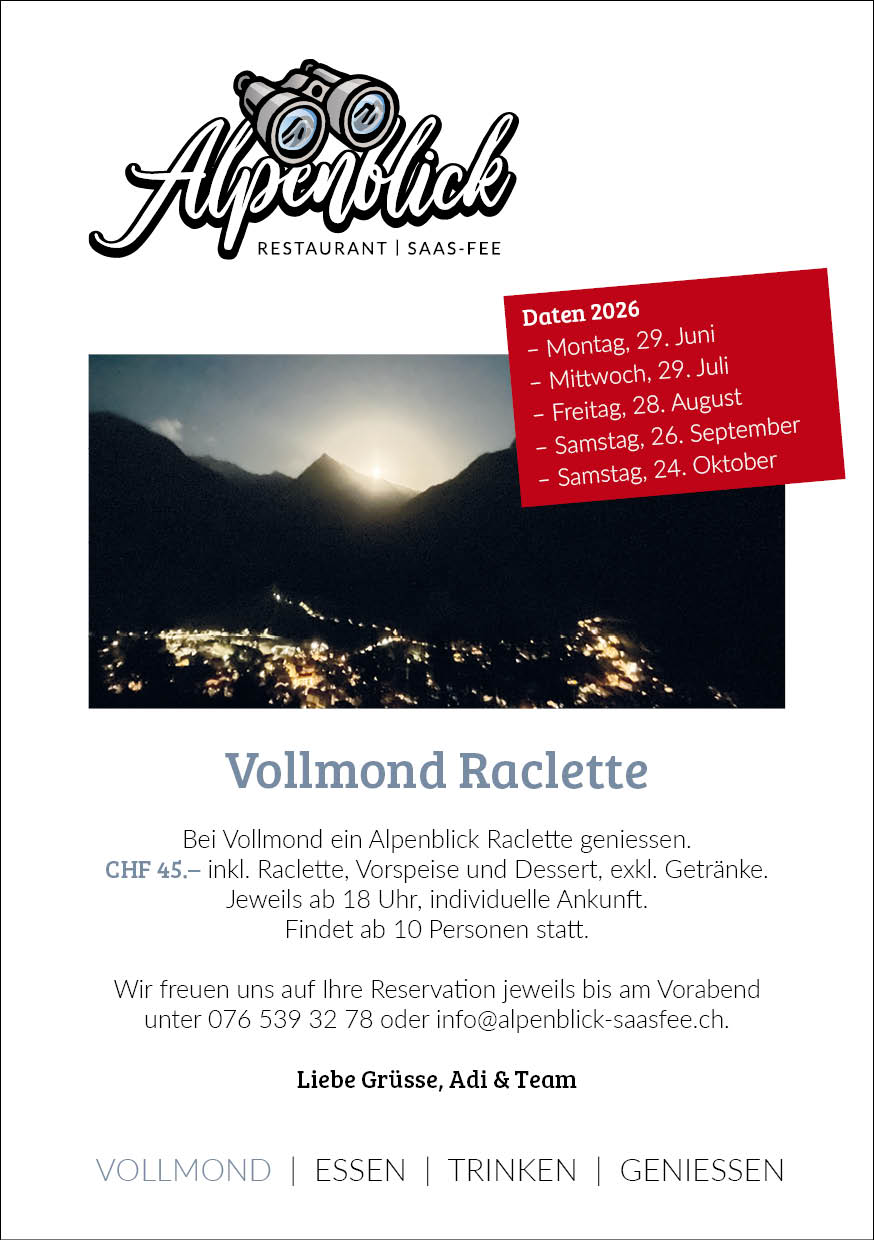
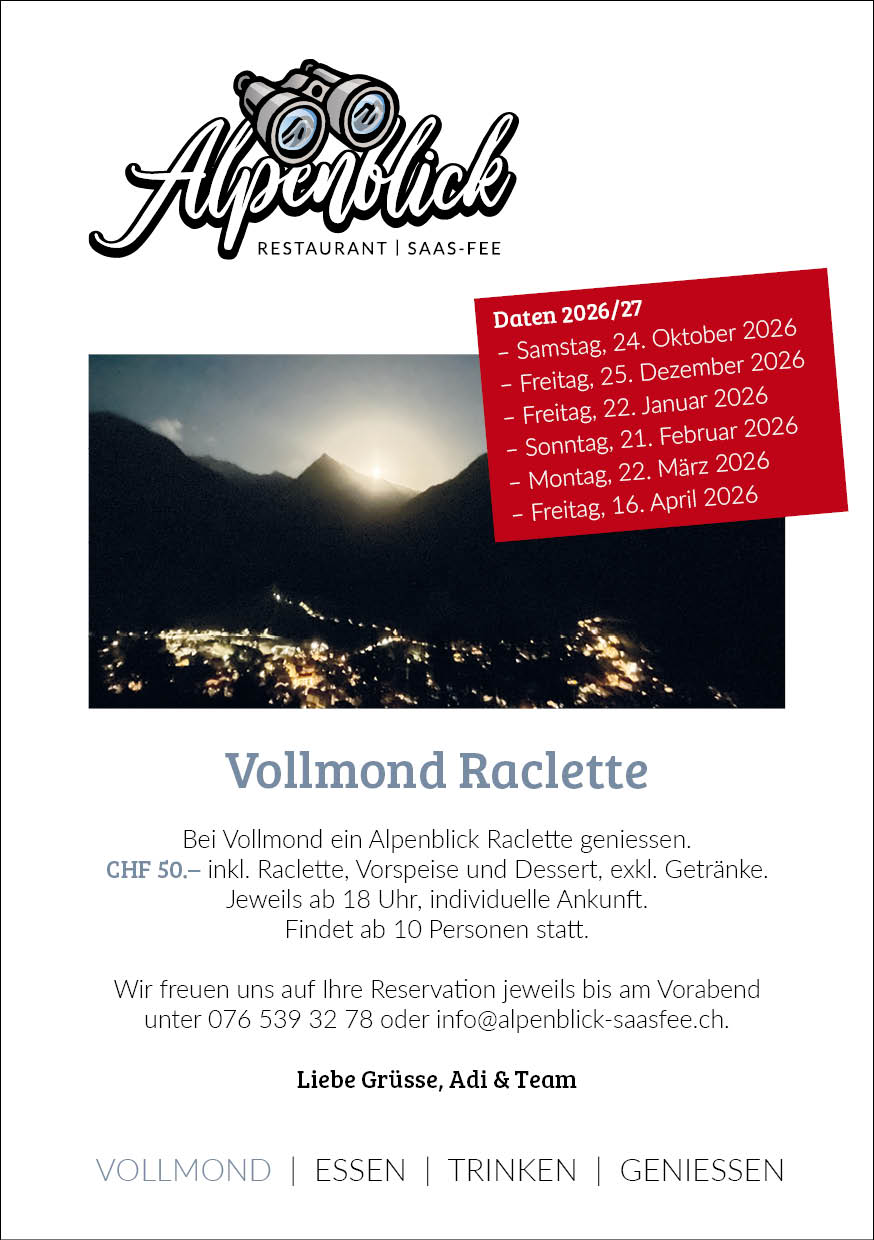
update homepage

Changed region(s): [[0.5252, 0.2145, 0.9886, 0.4597], [0.1854, 0.6742, 0.2162, 0.7048]]

diff --git a/content/_index.md b/content/_index.md
@@ -18,16 +18,18 @@ Normaler Text zwischen Linien<br>
 
 
 
-<!-- <br>
+<br>
 
 ---
 
-**Start Sommersaison**<br>
-Am **Donnerstag, 4. Juni 2026**, freuen wir uns, mit euch in die Sommersaison starten zu dürfen!
+**Saisonende und Start Wintersaison**<br>
+Wir geniessen mit euch noch bis und mit **Sonntag, 25. Oktober 2026** die Sommersaison. 
+
+Am **Donnerstag, 10. Dezember 2026**, freuen wir uns, mit euch in die Wintersaison starten zu dürfen!
 
 ---
 
-<br> -->
+<br>
 
 
 
@@ -75,7 +77,7 @@ C'est avec plaisir que nous vous servirons à nouveau le dimanche XYZ août 202X
 
 
 # Herzlich Willkommen ...
-![Alpenblick](images/Alpenblick_Ansicht_13.jpg "Alpenblick")
+![Alpenblick](images/Alpenblick_Herbst_2023_01.jpg "Alpenblick")
 <!-- 
 ![Alpenblick](images/Alpenblick_Ansicht_16.jpg "Alpenblick") -> WINTER
 ![Alpenblick](images/Alpenblick_Ansicht_13.jpg "Alpenblick") -> SOMMER
@@ -110,15 +112,12 @@ Unser kleines, aber feines <a href="images/Alpenblick_Flyer_Uebernachten_2022.jp
 
 
 ## Aktuelle Anlässe
-* Jeden Freitag: <a href="images/Alpenblick_Flyer_Freitag_Abend_Menu_2020.jpg" target="_blank"> Freitag Abend Überraschungsmenu</a>
-* Samstag, 18. Juli 2026: <a href="images/Alpenblick_Flyer_Hannig_Tavolata.jpg" target="_blank"> Hannig Tavolata</a> (mit dem Bergrestaurant Hannig)
-* Mittwoch, 29. Juli 2026: <a href="images/Alpenblick_Flyer_Vollmond_Raclette_Plausch.jpg" target="_blank"> Vollmond Raclette</a>
-* Samstag, 1. August 2026: <a href="images/Alpenblick_Flyer_1_August.jpg" target="_blank"> 1.-August-BBQ</a>
-* Sonntag, 9. August 2026: <a href="images/Alpenblick_Flyer_Ziegenfest.jpg" target="_blank"> Ziegenfest Saas--Fee</a>
-* Freitag, 28. August 2026: <a href="images/Alpenblick_Flyer_Vollmond_Raclette_Plausch.jpg" target="_blank"> Vollmond Raclette</a>
-* Freitag, 4. September 2026: <a href="images/Alpenblick_Flyer_Fondue_Tavolata.jpg" target="_blank"> Käsefondue Tavolata im Alpenblick</a>
-* Samstag, 26. September 2026: <a href="images/Alpenblick_Flyer_Vollmond_Raclette_Plausch.jpg" target="_blank"> Vollmond Raclette</a>
 * Samstag, 24. Oktober 2026: <a href="images/Alpenblick_Flyer_Vollmond_Raclette_Plausch.jpg" target="_blank"> Vollmond Raclette</a>
+* Freitag, 25. Dezember 2026: <a href="images/Alpenblick_Flyer_Vollmond_Raclette_Plausch.jpg" target="_blank"> Vollmond Raclette</a>
+* Freitag, 22. Januar 2026: <a href="images/Alpenblick_Flyer_Vollmond_Raclette_Plausch.jpg" target="_blank"> Vollmond Raclette</a>
+* Sonntag, 21. Februar 2026: <a href="images/Alpenblick_Flyer_Vollmond_Raclette_Plausch.jpg" target="_blank"> Vollmond Raclette</a>
+* Montag, 22. März 2026: <a href="images/Alpenblick_Flyer_Vollmond_Raclette_Plausch.jpg" target="_blank"> Vollmond Raclette</a>
+* Freitag, 16. April 2026: <a href="images/Alpenblick_Flyer_Vollmond_Raclette_Plausch.jpg" target="_blank"> Vollmond Raclette</a>
 
 <!-- * 04. – 25. September 2022: <a href="https://www.saas-fee.ch/de/events/top-events-im-sommer/saaser-gaumengaudi" target="_blank"> Saaser Gaumengaudi</a> (-> <a href="images/Alpenblick_Flyer_Saaser_Gaumengaudi_2022.jpg" target="_blank">Unser Menü</a>) -->
 <!-- * Sonntag, 10. Juli 2022: <a href="https://www.saas-fee.ch/de/events/top-events-im-sommer/saaser-gourmet-trail" target="_blank"> Saaser Gourmet-Trail</a> -->
@@ -135,6 +134,13 @@ Unser kleines, aber feines <a href="images/Alpenblick_Flyer_Uebernachten_2022.jp
 <!-- * AUSGEBUCHT: Sonntag, 13. April 2025: <a href="images/Alpenblick_Flyer_Vollmond_Raclette_Plausch.jpg" target="_blank"> Vollmond Raclette</a> -->
 <!-- * Montag, 29. Juni 2026: <a href="images/Alpenblick_Flyer_Vollmond_Raclette_Plausch.jpg" target="_blank"> Vollmond Raclette</a> -->
 <!-- * Sonntag, 27. Juli 2025: Ziegenfest Saas--Fee -->
+<!-- * Jeden Freitag: <a href="images/Alpenblick_Flyer_Freitag_Abend_Menu_2020.jpg" target="_blank"> Freitag Abend Überraschungsmenu</a> -->
+<!-- * Samstag, 18. Juli 2026: <a href="images/Alpenblick_Flyer_Hannig_Tavolata.jpg" target="_blank"> Hannig Tavolata</a> (mit dem Bergrestaurant Hannig) -->
+<!-- * Samstag, 1. August 2026: <a href="images/Alpenblick_Flyer_1_August.jpg" target="_blank"> 1.-August-BBQ</a> -->
+<!-- * Sonntag, 9. August 2026: <a href="images/Alpenblick_Flyer_Ziegenfest.jpg" target="_blank"> Ziegenfest Saas--Fee</a> -->
+<!-- * Freitag, 28. August 2026: <a href="images/Alpenblick_Flyer_Vollmond_Raclette_Plausch.jpg" target="_blank"> Vollmond Raclette</a> -->
+<!-- * Freitag, 4. September 2026: <a href="images/Alpenblick_Flyer_Fondue_Tavolata.jpg" target="_blank"> Käsefondue Tavolata im Alpenblick</a> -->
+<!-- * Samstag, 26. September 2026: <a href="images/Alpenblick_Flyer_Vollmond_Raclette_Plausch.jpg" target="_blank"> Vollmond Raclette</a> -->
 
 
 ## Erwähnungen in Blogbeiträgen
